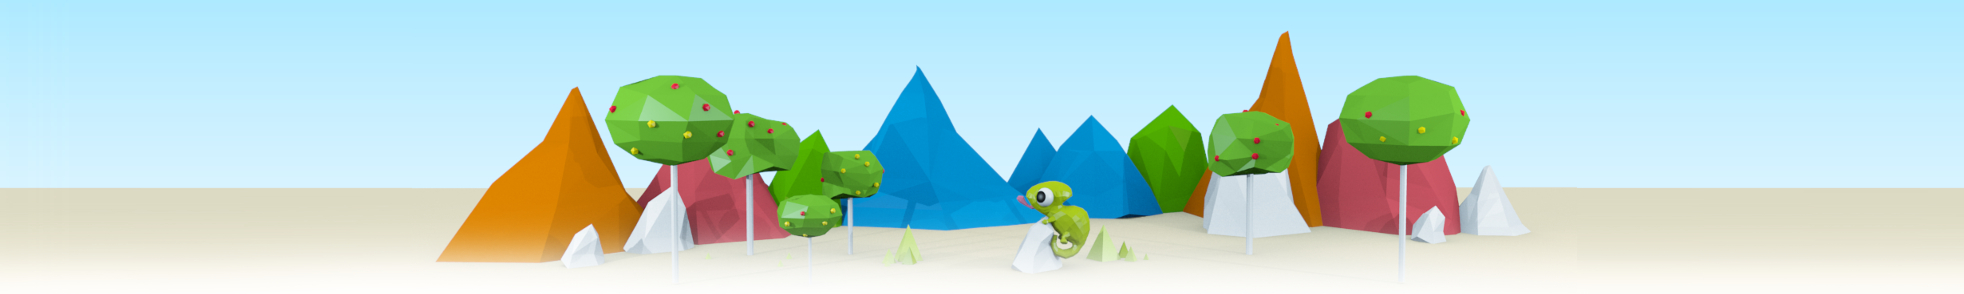
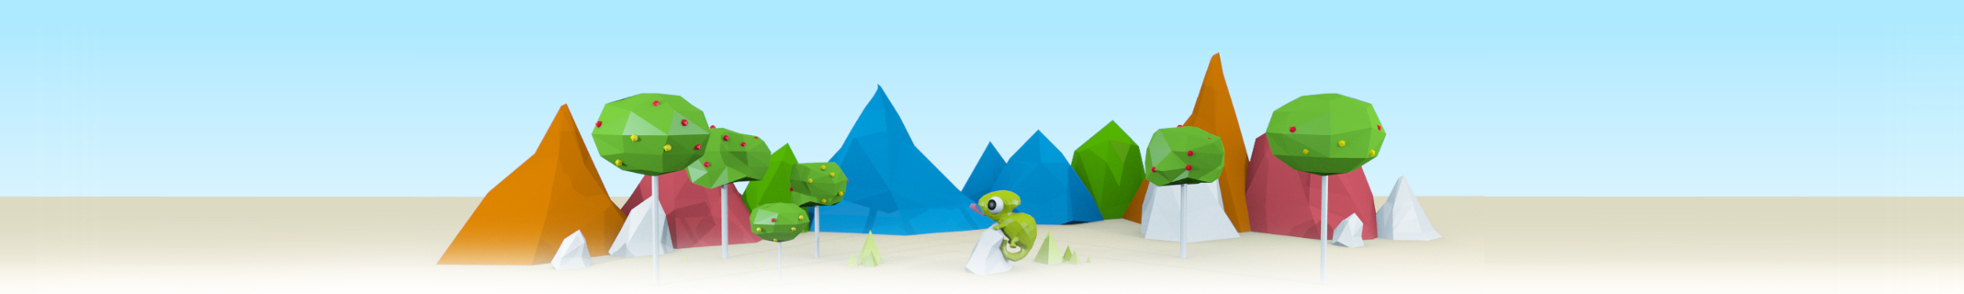
update footer css kiddy

Changed region(s): [[0.0, 0.1224, 1.0, 0.9184], [0.2174, 0.8878, 0.2795, 0.9184]]

diff --git a/main/css/kiddy/default.css b/main/css/kiddy/default.css
@@ -796,18 +796,17 @@ filter: progid:DXImageTransform.Microsoft.gradient( startColorstr='#d6f9ff', end
  *  FOOTER STYLES                                    *
  *****************************************************/
 footer {
-    height: 10em;   
-    background-color: #0191C7;
-    background-image: url(images/footer-bg.png);
-    background-repeat:repeat-x;    
-    color:#ffffff;
-    border-top: none;   
+    height: 16em;   
+    background: url(images/footer.jpg) center 0 repeat-x #6CB1DB; 
+    color:#147FB8;
+    border-top: none; 
+    padding-top: 0; 
 }
 footer .container .row {
-  padding-top: 5px;
+  padding-top: 0;
 }
 footer a:link, footer a:visited {
-  color: #F1D40D;
+  color: #FD6600;
 }
 /*****************************************************
  *  DISPLAY MESSAGES	                             *
@@ -1211,6 +1210,9 @@ filter: progid:DXImageTransform.Microsoft.gradient( startColorstr='#296eaa', end
     #top_main_content .menu-column #user_image_block{
       box-shadow: none;
     }
+    footer #footer_left a, footer #footer_center a, footer #footer_right a{
+      color: #FD6600;
+    }
 
 }
 @media (max-width: 600px) {
@@ -1291,8 +1293,12 @@ filter: progid:DXImageTransform.Microsoft.gradient( startColorstr='#296eaa', end
 }
 @media (min-width: 321px) and (max-width: 480px){
 footer {
-    height: 5em;
+    height: 15em;
+
   }
+footer #footer_left a, footer #footer_center a, footer #footer_right a {
+  color: #FD6600;
+}
 .welcome-mascot{
       background: none;
       padding-right: 0px;
@@ -1312,7 +1318,8 @@ footer {
 }
 @media (min-width: 1201px) {
 .page-section{
-  background: url(images/camaleon.jpg) repeat-x 80px -100px;
+  background: url(images/camaleon.jpg) repeat-x 341px -34px;
+  background-size: 72% auto;
   margin-top: -10px;
 }
 }
